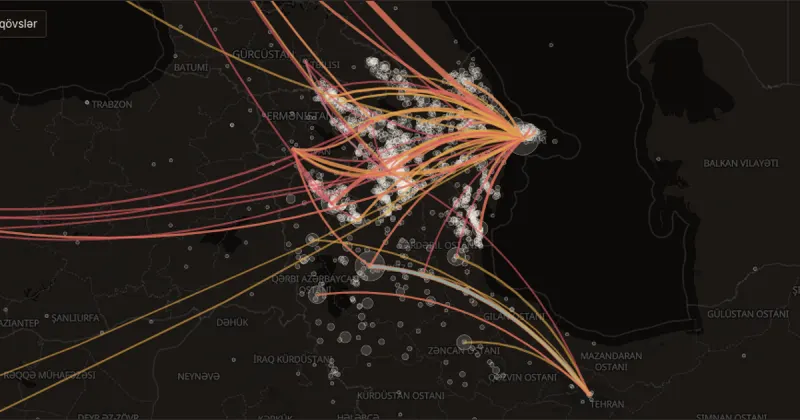
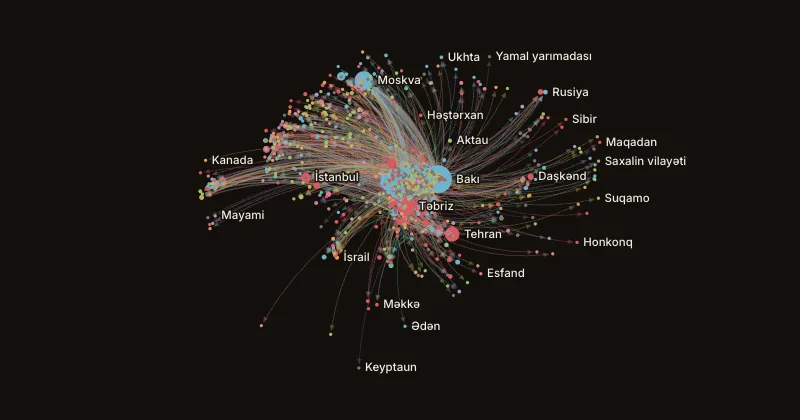
İnsanlar: the network of places on the shared graph view (shared/graph.js), cosmos.gl dropped: one graph of every flow, built once, that the era / occupation / group / sex filters hide, re-size and re-colour without moving anything; Geography from the places' coordinates, Force from ForceAtlas2 at b

diff --git a/sebeke/insanlar/index.html b/sebeke/insanlar/index.html
@@ -4,6 +4,7 @@
 <meta charset="utf-8">
 <meta name="viewport" content="width=device-width, initial-scale=1">
 <script src="/shared/theme.js"></script>
+<link rel="stylesheet" href="/shared/graph.css">
 <title>Tarixi Azərbaycanın insanları · Azad Bilik</title>
 <meta name="description" content="Wikidata-da tarixi Azərbaycan torpaqlarında doğulmuş insanlar: doğulduqları və öldükləri yerlər, köç yolları, peşələr. People of historical Azerbaijan on Wikidata: where they were born and died, migration routes, occupations.">
 <meta name="theme-color" content="#F4EFE6" media="(prefers-color-scheme: light)">
@@ -81,14 +82,11 @@
   .listh { margin-top: 1rem; font-size: .875rem; }
   .listh b { font-weight: 600; }
 
-  .gwrap { position: relative; border: 1px solid var(--rule); border-radius: 4px; background: var(--frame); overflow: hidden; }
-  #cg { height: min(74vh, 44rem); touch-action: none; position: relative; }
-  #cg canvas { display: block; width: 100%; height: 100%; }
-  .gtip { position: absolute; z-index: 3; pointer-events: none; background: var(--paper); border: 1px solid var(--rule); border-radius: 3px; padding: .3rem .55rem; font-size: .8125rem; box-shadow: 0 2px 12px rgb(0 0 0 / .15); max-width: 16rem; }
-  .gload { position: absolute; inset: 0; display: grid; place-items: center; color: var(--muted); font-size: .875rem; }
-  .gbar { position: absolute; right: .6rem; bottom: .6rem; display: flex; gap: .3rem; z-index: 2; }
-  .gbar button { background: var(--panel); border: 1px solid var(--rule); border-radius: 3px; padding: .3rem .6rem; font-size: .75rem; }
-  .gbar button:hover { border-color: var(--ink); }
+  .gwrap { position: relative; }
+  #cg { height: min(74vh, 44rem); }
+  #nodeList:empty { display: none; }
+  .gload { position: absolute; inset: 0; display: grid; place-items: center; color: var(--muted); font-size: .875rem; pointer-events: none; }
+  .gload[hidden] { display: none; }
   .seg { display: inline-flex; flex-wrap: wrap; border: 1px solid var(--rule); border-radius: 3px; padding: 2px; }
   .seg button { padding: .3rem .7rem; border-radius: 2px; font-size: .8125rem; color: var(--muted); }
   .seg button[aria-pressed="true"] { background: var(--ink); color: var(--paper); }
@@ -193,8 +191,7 @@
         <div class="seg" role="group" id="lay" data-i18n-label="layL"></div>
         <div class="seg" role="group" id="col" data-i18n-label="colL"></div>
       </div>
-      <div class="gwrap"><div id="cg" role="img" data-i18n-label="netL"></div><div class="gtip" id="gtip" hidden></div><div class="gload" id="gload"></div>
-        <div class="gbar"><button type="button" id="gfit"></button></div></div>
+      <div class="gwrap"><div id="cg" role="region" data-i18n-label="netL"></div><div class="gload" id="gload"></div></div>
       <div class="lgd" id="netlgd"></div>
       <p class="hint" id="netHint"></p>
       <div class="hubs" id="hubs"></div>
@@ -232,7 +229,6 @@
 </div>
 
 <script src="https://unpkg.com/maplibre-gl@4.7.1/dist/maplibre-gl.js"></script>
-<script src="https://cdn.jsdelivr.net/npm/@cosmos.gl/graph@3.6.0/dist/index.min.js"></script>
 <script>
 (() => {
 const $ = (id) => document.getElementById(id);
@@ -273,7 +269,7 @@ az: { doc: 'Tarixi Azərbaycanın insanları · Azad Bilik', title: 'Tarixi Azə
   legArc: 'Qövs: dövr', legDot: 'Dairə: orada doğulanlar',
   route: (a, b, n) => `${a} → ${b}: ${n} nəfər`, placeList: (p, b, d) => `${p}: ${b} doğulub, ${d} ölüb`, born: 'doğulub', died: 'ölüb', more: (n) => `… və daha ${n}`,
   netK: 'Şəbəkə', netH: 'Yerlər düyün, insan axını tilişdir', netP: 'Eyni süzgəc: hər düyün bir yerdir (şəhər, kənd), hər xətt oradan oraya doğulub-ölmüş insanların axınıdır. Düyünün rəngi orada doğulan və ölənlərin ən çox peşəsidir. «Coğrafiya» düzülüşündə yerlər xəritədəki yerindədir (uzaq yerlər yaxına çəkilib), «qüvvə» düzülüşündə isə qarşılıqlı bağları çox olan yerlər bir-birinə yaxınlaşır.',
-  layL: 'Düzülüş', lay: ['Coğrafiya', 'Qüvvə'], colL: 'Rəng', col: ['Peşə', 'Dövr'], netL: 'Yerlər arasında insan axını şəbəkəsi', gfit: 'Hamısı', gload: 'Şəbəkə yüklənir…',
+  layL: 'Düzülüş', lay: ['Coğrafiya', 'Qüvvə'], colL: 'Rəng', col: ['Peşə', 'Dövr'], netL: 'Yerlər arasında insan axını şəbəkəsi', gsearch: 'Yer axtar…', gfit: 'Hamısı', gload: 'Şəbəkə yüklənir…',
   netHint: 'Düyünün üstünə gəlin və ya toxunun; sürüşdürün, yaxınlaşdırın. Bağlı yerlərin sayı və axın ölçünü, rəng ən çox peşəni göstərir.', hubTitle: 'Ən çox bağlı yerlər:', netStats: (n, e) => `${nf(n)} yer, ${nf(e)} axın`,
   findK: 'Axtarış', findH: 'Bir adamın yolu', findP: 'Adı yazın (latın, kiril və ya ingilis), doğulduğu yerdən yaşadığı və öldüyü yerlərə baxın.', findPh: 'Ad: Nizami, Üzeyir, Natavan…', sugg: 'Məsələn:', none: 'Tapılmadı.', shown: (n, m) => `${nf(n)} nəfərdən ${m} göstərilir`,
   pBorn: 'Doğulub', pDied: 'Ölüb', pRes: 'Yaşayıb / işləyib', pOcc: 'Peşə', pLang: 'Dil', pGrp: 'Rayon', pSites: 'Wikimedia səhifələri', unknown: 'məlum deyil', alive: 'sağdır (Wikidata-da ölüm tarixi yoxdur)', resNote: 'tarixsiz, sıra bilinmir',
@@ -289,7 +285,7 @@ az: { doc: 'Tarixi Azərbaycanın insanları · Azad Bilik', title: 'Tarixi Azə
   <li><b>Sağ olanlar.</b> Ölüm tarixi olmayan və 1906-dan sonra doğulanlar yalnız ən azı 3 Vikimedia saytında səhifəsi varsa göstərilir; yalnız Wikidata-da onsuz da olan məlumat (ad, il, yer) göstərilir.</li>
   <li><b>Peşə rəngi.</b> Wikidata-dakı peşələr söz üzrə 11 qrupa bölünüb (skript: scripts/build.mjs); bir adamın ən çox sayılan qrupu götürülür. Qeyri-dəqiqdir.</li>
   <li><b>Yoxlanmayıb.</b> Wikidata iddiaları (doğum yeri, tarix) əksəriyyətinin mənbəsi göstərilmir; heç biri burada müstəqil yoxlanmayıb.</li></ul>`,
-  foot: (b) => `Məlumat: <a href="https://www.wikidata.org/">Wikidata</a> (CC0), ${b} tarixində çəkilib; sərhədlər hubun öz məlumatlarından (<a href="/atlas/ehali/">əhali</a>, <a href="/atlas/1897/">1897</a>); xəritə: <a href="https://openfreemap.org/">OpenFreeMap</a>, © <a href="https://www.openstreetmap.org/copyright">OpenStreetMap</a>; şəbəkə: <a href="https://github.com/cosmosgl/graph">cosmos.gl</a> (MIT). Hub məlumatı CC0.` },
+  foot: (b) => `Məlumat: <a href="https://www.wikidata.org/">Wikidata</a> (CC0), ${b} tarixində çəkilib; sərhədlər hubun öz məlumatlarından (<a href="/atlas/ehali/">əhali</a>, <a href="/atlas/1897/">1897</a>); xəritə: <a href="https://openfreemap.org/">OpenFreeMap</a>, © <a href="https://www.openstreetmap.org/copyright">OpenStreetMap</a>; şəbəkə: <a href="https://www.sigmajs.org">sigma.js</a>, <a href="https://graphology.github.io">graphology</a> (MIT). Hub məlumatı CC0.` },
 ru: { doc: 'Люди исторического Азербайджана · Azad Bilik', title: 'Люди исторического Азербайджана', sub: 'Где родились, где умерли, куда уехали', library: 'Kitabxana',
   mapK: 'Миграция', mapH: 'От места рождения к месту смерти',
   mapP: 'Каждая дуга — путь людей, родившихся в одном месте и умерших в другом; толщина — их число. Дуга относится к эпохе по году смерти (если года нет — год рождения плюс 60). Включайте и выключайте эпохи, чтобы увидеть поток из Тебриза, Шуши, Шемахи в Баку и пути в Стамбул, Тегеран, Париж и Москву. Встречные дуги изгибаются влево по ходу, чтобы не сливаться.',
@@ -301,7 +297,7 @@ ru: { doc: 'Люди исторического Азербайджана · Azad
   legArc: 'Дуга: эпоха', legDot: 'Круг: родившиеся здесь',
   route: (a, b, n) => `${a} → ${b}: ${n} чел.`, placeList: (p, b, d) => `${p}: родились ${b}, умерли ${d}`, born: 'родился', died: 'умер', more: (n) => `… и ещё ${n}`,
   netK: 'Сеть', netH: 'Места — узлы, потоки людей — рёбра', netP: 'Тот же фильтр: узел — место (город, село), ребро — поток людей, родившихся в одном месте и умерших в другом. Цвет узла — преобладающее занятие тех, кто родился или умер там. В раскладке «география» места стоят там, где на карте (далёкие подтянуты ближе); в раскладке «силы» места со многими связями сближаются.',
-  layL: 'Раскладка', lay: ['География', 'Силы'], colL: 'Цвет', col: ['Занятие', 'Эпоха'], netL: 'Сеть потоков людей между местами', gfit: 'Всё', gload: 'Загрузка сети…',
+  layL: 'Раскладка', lay: ['География', 'Силы'], colL: 'Цвет', col: ['Занятие', 'Эпоха'], netL: 'Сеть потоков людей между местами', gsearch: 'Найти место…', gfit: 'Всё', gload: 'Загрузка сети…',
   netHint: 'Наведите или коснитесь узла; двигайте и приближайте. Размер — число связей и поток, цвет — преобладающее занятие.', hubTitle: 'Самые связанные места:', netStats: (n, e) => `${nf(n)} мест, ${nf(e)} потоков`,
   findK: 'Поиск', findH: 'Путь одного человека', findP: 'Введите имя (латиницей, кириллицей или по-английски) и посмотрите путь от места рождения к местам жизни и смерти.', findPh: 'Имя: Низами, Узеир, Натаван…', sugg: 'Например:', none: 'Не найдено.', shown: (n, m) => `показано ${m} из ${nf(n)}`,
   pBorn: 'Родился', pDied: 'Умер', pRes: 'Жил / работал', pOcc: 'Занятия', pLang: 'Язык', pGrp: 'Район', pSites: 'Страниц Викимедиа', unknown: 'неизвестно', alive: 'жив (в Wikidata нет даты смерти)', resNote: 'без дат, порядок неизвестен',
@@ -317,7 +313,7 @@ ru: { doc: 'Люди исторического Азербайджана · Azad
   <li><b>Живущие.</b> Люди без даты смерти, родившиеся после 1906 года, показаны только при странице минимум в трёх проектах Викимедиа; показано лишь то, что уже есть в Wikidata (имя, год, место).</li>
   <li><b>Цвет занятия.</b> Занятия из Wikidata разнесены по 11 группам по словам (scripts/build.mjs); берётся самая частая у человека. Приблизительно.</li>
   <li><b>Не проверено.</b> У большинства утверждений Wikidata (место, дата) источник не указан; здесь они независимо не проверялись.</li></ul>`,
-  foot: (b) => `Данные: <a href="https://www.wikidata.org/">Wikidata</a> (CC0), выгрузка ${b}; границы из данных самого хаба (<a href="/atlas/ehali/">население</a>, <a href="/atlas/1897/">1897</a>); карта: <a href="https://openfreemap.org/">OpenFreeMap</a>, © <a href="https://www.openstreetmap.org/copyright">OpenStreetMap</a>; сеть: <a href="https://github.com/cosmosgl/graph">cosmos.gl</a> (MIT). Данные хаба — CC0.` },
+  foot: (b) => `Данные: <a href="https://www.wikidata.org/">Wikidata</a> (CC0), выгрузка ${b}; границы из данных самого хаба (<a href="/atlas/ehali/">население</a>, <a href="/atlas/1897/">1897</a>); карта: <a href="https://openfreemap.org/">OpenFreeMap</a>, © <a href="https://www.openstreetmap.org/copyright">OpenStreetMap</a>; сеть: <a href="https://www.sigmajs.org">sigma.js</a>, <a href="https://graphology.github.io">graphology</a> (MIT). Данные хаба — CC0.` },
 en: { doc: 'People of historical Azerbaijan · Azad Bilik', title: 'People of historical Azerbaijan', sub: 'Where they were born, where they died, where they went', library: 'Kitabxana',
   mapK: 'Migration', mapH: 'From the birthplace to the place of death',
   mapP: 'Each arc is the path of people born in one place and dead in another; its width is their number. An arc belongs to an era by the year of death (birth year + 60 where there is none). Switch eras on and off to see the flow from Tabriz, Shusha and Shamakhi to Baku, and the routes to Istanbul, Tehran, Paris and Moscow. Opposite arcs bend to the left of their direction so they do not overlap.',
@@ -329,7 +325,7 @@ en: { doc: 'People of historical Azerbaijan · Azad Bilik', title: 'People of hi
   legArc: 'Arc: era', legDot: 'Circle: born here',
   route: (a, b, n) => `${a} → ${b}: ${n} people`, placeList: (p, b, d) => `${p}: ${b} born, ${d} died`, born: 'born', died: 'died', more: (n) => `… and ${n} more`,
   netK: 'Network', netH: 'Places are nodes, flows of people are edges', netP: 'The same filter: each node is a place (town, village), each edge the flow of people born in one place and dead in another. A node\'s colour is the commonest occupation of those born or dead there. In the "geography" layout places sit where they are on the map (distant ones pulled in); in the "force" layout places with many ties draw together.',
-  layL: 'Layout', lay: ['Geography', 'Force'], colL: 'Colour', col: ['Occupation', 'Era'], netL: 'Network of people\'s flows between places', gfit: 'Fit', gload: 'Loading the network…',
+  layL: 'Layout', lay: ['Geography', 'Force'], colL: 'Colour', col: ['Occupation', 'Era'], netL: 'Network of people\'s flows between places', gsearch: 'Find a place…', gfit: 'Fit', gload: 'Loading the network…',
   netHint: 'Hover or tap a node; drag and zoom. Size is the number of ties and flow, colour the commonest occupation.', hubTitle: 'Best-connected places:', netStats: (n, e) => `${nf(n)} places, ${nf(e)} flows`,
   findK: 'Search', findH: 'One person\'s path', findP: 'Type a name (Latin, Cyrillic or English) and follow the path from birthplace to the places lived in and the place of death.', findPh: 'Name: Nizami, Uzeyir, Natavan…', sugg: 'Try:', none: 'No match.', shown: (n, m) => `showing ${m} of ${nf(n)}`,
   pBorn: 'Born', pDied: 'Died', pRes: 'Lived / worked', pOcc: 'Occupation', pLang: 'Language', pGrp: 'District', pSites: 'Wikimedia pages', unknown: 'unknown', alive: 'living (no death date on Wikidata)', resNote: 'undated, order unknown',
@@ -345,7 +341,7 @@ en: { doc: 'People of historical Azerbaijan · Azad Bilik', title: 'People of hi
   <li><b>Living people.</b> Those without a death date born after 1906 appear only with pages on at least three Wikimedia sites, and only what Wikidata already shows (name, year, place).</li>
   <li><b>Occupation colour.</b> Wikidata's occupations are sorted into 11 groups by keywords (scripts/build.mjs); a person gets the group counted most often. Rough.</li>
   <li><b>Unverified.</b> Most Wikidata claims (place, date) cite no source; none was independently checked here.</li></ul>`,
-  foot: (b) => `Data: <a href="https://www.wikidata.org/">Wikidata</a> (CC0), pulled ${b}; boundaries from the hub's own data (<a href="/atlas/ehali/">population</a>, <a href="/atlas/1897/">1897</a>); map: <a href="https://openfreemap.org/">OpenFreeMap</a>, © <a href="https://www.openstreetmap.org/copyright">OpenStreetMap</a>; network: <a href="https://github.com/cosmosgl/graph">cosmos.gl</a> (MIT). Hub data CC0.` },
+  foot: (b) => `Data: <a href="https://www.wikidata.org/">Wikidata</a> (CC0), pulled ${b}; boundaries from the hub's own data (<a href="/atlas/ehali/">population</a>, <a href="/atlas/1897/">1897</a>); map: <a href="https://openfreemap.org/">OpenFreeMap</a>, © <a href="https://www.openstreetmap.org/copyright">OpenStreetMap</a>; network: <a href="https://www.sigmajs.org">sigma.js</a>, <a href="https://graphology.github.io">graphology</a> (MIT). Hub data CC0.` },
 };
 T.ru.lede = (n, w) => `${nf(n)} человек, родившихся по обе стороны Аракса в Wikidata (нынешняя Азербайджанская Республика, иранские останы Восточный и Западный Азербайджан, Ардебиль, Зенджан, азербайджаноязычные уезды 1897 года, Борчалы, Закатала, Дербент); у ${nf(w)} известны и место рождения, и место смерти.`;
 T.az.lede = (n, w) => `Wikidata-da Araz boyunun hər iki tərəfində (bugünkü Azərbaycan Respublikası, İranın Şərqi və Qərbi Azərbaycan, Ərdəbil və Zəncan ostanları, 1897-ci ildə azərbaycanlı əhalisi çox olan qəzalar, Borçalı, Zaqatala, Dərbənd) doğulmuş ${nf(n)} insan; ${nf(w)} nəfərin həm doğulduğu, həm öldüyü yer məlumdur.`;
@@ -470,87 +466,104 @@ function legendMap() {
   $('maplgd').innerHTML = `<span>${esc(t('legArc'))}</span>` + t('eras').map((e, i) => `<span><i class="ln" style="--c:${ec[i]};opacity:${S.eras.has(i) ? 1 : .3}"></i>${esc(e)}</span>`).join('') + `<span><i style="--c:var(--ink);opacity:.35"></i>${esc(t('legDot'))}</span>`;
 }
 
-// ---- the network (cosmos.gl)
-let graph = null, G = null, gReady = false;
+// ---- the network (shared/graph.js: sigma.js over graphology). One graph of every flow, built once; the
+// filters above hide and show its places and flows and re-size and re-colour them, nothing moves. "Force"
+// positions come from the build (scripts/layout.mjs), "Geography" from the places' coordinates.
+let NG = null, NET = null, G = null, gReady = false, FPOS = null, selPl = -1;
 function geoXY(lon, lat) {
   const cx = 47.2, cy = 39.6, dx = (lon - cx) * 0.78, dy = lat - cy, r = Math.hypot(dx, dy);
   if (r < 0.001) return [0, 0];
   const f = r <= 5 ? r : 5 + 4 * Math.log(r / 5), s = f / r; return [dx * s, -dy * s];
 }
 function netData() {
+  // the current filters' share of each place and flow
   const agg = new Map(), node = new Map();
   const touch = (pl, r) => { let n = node.get(pl); if (!n) node.set(pl, (n = { pl, c: new Array(11).fill(0), e: [0, 0, 0, 0], n: 0, deg: new Set() })); n.c[r[R.cat]]++; n.e[eraOf(keyYear(r))]++; n.n++; return n; };
   for (const i of view) {
     const r = P[i]; if (r[R.bp] < 0 || r[R.dp] < 0 || r[R.bp] === r[R.dp]) continue;
     const e = eraOf(keyYear(r)); if (!S.eras.has(e)) continue;
     const a = touch(r[R.bp], r), b = touch(r[R.dp], r); a.deg.add(r[R.dp]); b.deg.add(r[R.bp]);
-    const k = r[R.bp] * 1e5 + r[R.dp]; let l = agg.get(k); if (!l) agg.set(k, (l = { a: r[R.bp], b: r[R.dp], n: 0, e: [0, 0, 0, 0], c: new Array(11).fill(0) })); l.n++; l.e[e]++; l.c[r[R.cat]]++;
+    const k = r[R.bp] + '>' + r[R.dp]; let l = agg.get(k); if (!l) agg.set(k, (l = { a: r[R.bp], b: r[R.dp], n: 0, e: [0, 0, 0, 0], c: new Array(11).fill(0) })); l.n++; l.e[e]++; l.c[r[R.cat]]++;
   }
-  const nodes = [...node.values()], idx = new Map(nodes.map((n, i) => [n.pl, i]));
-  return { nodes, links: [...agg.values()], idx };
+  return { nodes: node, links: agg };
 }
 const argmax = (a, skipLast) => { let b = -1, v = 0; for (let i = 0; i < a.length - (skipLast ? 1 : 0); i++) if (a[i] > v) { v = a[i]; b = i; } return b < 0 ? a.length - 1 : b; };
-function paint() {
-  if (!G || !graph) return;
-  const cc = catColors().map(hex), ec = eraColors().map(cssRgb).map(hex), { nodes, links } = G;
-  const col = (src, isCat) => { const k = isCat ? argmax(src, true) : argmax(src, false); return (isCat ? cc : ec)[k]; };
-  const pc = new Float32Array(nodes.length * 4), ps = new Float32Array(nodes.length);
-  nodes.forEach((n, i) => { const c = col(S.col === 'cat' ? n.c : n.e, S.col === 'cat'); pc.set([c[0], c[1], c[2], 1], i * 4); ps[i] = 2.5 + Math.min(Math.sqrt(n.n + n.deg.size) * 0.6, 20); });
-  const lc = new Float32Array(links.length * 4), lw = new Float32Array(links.length);
-  const dk = dark(); links.forEach((l, i) => { const c = col(S.col === 'cat' ? l.c : l.e, S.col === 'cat'); lc.set([c[0], c[1], c[2], dk ? .34 : .4], i * 4); lw[i] = 0.5 + Math.sqrt(l.n) * 0.6; });
-  graph.setPointColors(pc); graph.setPointSizes(ps); graph.setLinkColors(lc); graph.setLinkWidths(lw); graph.render();
-  legendNet();
+const colOf = (x) => (S.col === 'cat' ? catColors()[argmax(x.c, true)] : eraColors()[argmax(x.e, false)]);
+function allFlows() {
+  // every flow of every person, whatever the filters: the graph's fixed set of places and flows
+  const nodes = new Map(), edges = new Map();
+  for (const r of P) {
+    if (r[R.bp] < 0 || r[R.dp] < 0 || r[R.bp] === r[R.dp]) continue;
+    nodes.set(r[R.bp], { id: r[R.bp] }); nodes.set(r[R.dp], { id: r[R.dp] });
+    const k = r[R.bp] + '>' + r[R.dp]; if (!edges.has(k)) edges.set(k, { id: k, source: r[R.bp], target: r[R.dp] });
+  }
+  return { nodes: [...nodes.values()], edges: [...edges.values()] };
 }
+function positionsFor(lay) {
+  const out = {};
+  for (const n of NG.nodes) {
+    if (lay === 'force') out[n.id] = { x: FPOS[2 * n.id], y: -FPOS[2 * n.id + 1] };
+    else { const [x, y] = geoXY(PL[n.id][3], PL[n.id][4]); out[n.id] = { x: x * 100, y: -y * 100 }; }
+  }
+  return out;
+}
+async function makeGraph() {
+  gReady = true;
+  const [{ createGraph }, pb] = await Promise.all([import('/shared/graph.js'), FPOS ? null : fetch('data/net-pos.bin').then((r) => r.arrayBuffer())]);
+  if (pb) FPOS = new Int16Array(pb);
+  NG ??= allFlows(); NET = netData();
+  const keep = G?.selected();
+  G?.destroy();
+  G = createGraph($('cg'), {
+    nodes: NG.nodes, edges: NG.edges, positions: positionsFor(S.lay),
+    label: (n) => plName(n.id), color: (n) => { const x = NET.nodes.get(n.id); return x ? colOf(x) : 'var(--muted)'; },
+    size: (n) => { const x = NET.nodes.get(n.id); return (x ? 2 + Math.min(Math.sqrt(x.n + x.deg.size) * 0.45, 16) : 2) * Math.min(1, Math.max(0.6, $('cg').clientWidth / 1000)); },
+    edgeColor: (e) => { const l = NET.links.get(e.id); return l ? colOf(l) : null; },
+    edgeWidth: (e) => { const l = NET.links.get(e.id); return l ? Math.min(4, Math.round((0.4 + Math.sqrt(l.n) * 0.35) * 4) / 4) : 1; },
+    edgeAlpha: 0.32, curve: 0.18, labelSize: 11.5, reshape: S.lay === 'force', stretch: 1.4,
+    strings: { search: t('gsearch') },
+    tooltip: (n) => hubTip(n.id), edgeTooltip: (e) => { const l = NET.links.get(e.id); return l ? `<b>${esc(plName(l.a))} → ${esc(plName(l.b))}</b><br>${nf(l.n)}` : ''; },
+    panel: $('nodeList'),
+    onSelect: (f) => { selPl = f?.type === 'node' ? +f.id : -1; if (f?.type === 'edge') flowList(f.id); else nodeList(selPl); },
+  });
+  window.__graph = G;
+  refreshNet();
+  await G.ready;
+  $('gload').hidden = true;
+  if (keep?.type === 'node' && G.isVisible(keep.id)) G.focus(keep.id, { fly: false });
+}
+function refreshNet() {
+  if (!G) return;
+  NET = netData();
+  G.setFilter((n) => NET.nodes.has(n.id), (e) => NET.links.has(e.id));
+  G.relabel();
+  paint();
+  const hubs = [...NET.nodes.values()].map((n) => [n.pl, n.deg.size + n.n * 0.1]).sort((a, b) => b[1] - a[1]).slice(0, 10);
+  $('hubs').innerHTML = `<span class="hint" style="margin:0 .3rem 0 0;align-self:center">${esc(t('hubTitle'))}</span>` + hubs.map(([pl]) => `<button type="button" data-n="${pl}">${esc(plName(pl))}</button>`).join('');
+  $('hubs').querySelectorAll('[data-n]').forEach((b) => (b.onclick = () => G.focus(+b.dataset.n)));
+  $('netHint').textContent = t('netStats')(NET.nodes.size, NET.links.size) + '. ' + t('netHint');
+  if (selPl >= 0) nodeList(selPl);
+}
+function buildNet() { if (!gReady) makeGraph(); else refreshNet(); }
+function paint() { legendNet(); }
 function legendNet() {
   if (S.col === 'cat') { const cc = catColors(); $('netlgd').innerHTML = CAT_ORDER.map((k, i) => `<span><i style="--c:${cc[i]}"></i>${esc(t('cats')[k])}</span>`).join(''); }
   else { const ec = eraColors(); $('netlgd').innerHTML = t('eras').map((e, i) => `<span><i style="--c:${ec[i]}"></i>${esc(e)}</span>`).join(''); }
 }
-function layout() {
-  const n = G.nodes.length, pos = new Float32Array(n * 2);
-  G.nodes.forEach((nd, i) => { const [x, y] = geoXY(PL[nd.pl][3], PL[nd.pl][4]); pos[2 * i] = 2048 + x * 95; pos[2 * i + 1] = 2048 + y * 95; });
-  const links = new Float32Array(G.links.length * 2); G.links.forEach((l, i) => { links[2 * i] = G.idx.get(l.a); links[2 * i + 1] = G.idx.get(l.b); });
-  return { pos, links };
+function hubTip(pl) {
+  const n = NET.nodes.get(pl); if (!n) return '';
+  return `<b>${esc(plName(pl))}</b><br>${nf(n.n)} · ${nf(n.deg.size)} ${lang === 'az' ? 'bağ' : lang === 'ru' ? 'связей' : 'ties'}`;
 }
-function buildNet(keepView) {
-  G = netData();
-  $('netHint2')?.remove();
-  if (!G.nodes.length) { if (graph) { graph.setPointPositions(new Float32Array(0)); graph.setLinks(new Float32Array(0)); graph.render(); } return; }
-  const { pos, links } = layout();
-  const sim = S.lay === 'force';
-  if (!graph) {
-    graph = new window.Cosmos.Graph($('cg'), {
-      backgroundColor: css('--frame') || '#E9E2D6', spaceSize: 4096, enableSimulation: sim, enableDrag: true, fitViewOnInit: true, fitViewPadding: 0.1, scalePointsOnZoom: true,
-      curvedLinks: false, linkDefaultWidth: 1, pointDefaultSize: 4, renderHoveredPointRing: true, hoveredPointRingColor: css('--accent') || '#A81E28', showFPSMonitor: false, attribution: '',
-      simulationGravity: 0.12, simulationRepulsion: 1.6, simulationLinkSpring: 0.4, simulationLinkDistance: 14, simulationFriction: 0.88, simulationDecay: 4000,
-      onPointMouseOver: (i, _p, ev) => hubTip(i, ev), onPointMouseOut: () => { $('gtip').hidden = true; },
-      onPointClick: (i) => { selectNode(i); }, onClick: (i) => { if (i === undefined) $('gtip').hidden = true; },
-    });
-  } else {
-    graph.setConfigPartial?.({ enableSimulation: sim });
-  }
-  graph.setPointPositions(pos); graph.setLinks(links);
-  paint();
-  if (sim) graph.start(0.8); else graph.pause?.();
-  if (!keepView) setTimeout(() => graph.fitView(0, 0.08), 60);
-  $('gload').hidden = true; gReady = true; window.__graph = graph;
-  const hubs = G.nodes.map((n, i) => [i, n.deg.size + n.n * 0.1]).sort((a, b) => b[1] - a[1]).slice(0, 10);
-  $('hubs').innerHTML = `<span class="hint" style="margin:0 .3rem 0 0;align-self:center">${esc(t('hubTitle'))}</span>` + hubs.map(([i]) => `<button type="button" data-n="${i}">${esc(plName(G.nodes[i].pl))}</button>`).join('');
-  $('hubs').querySelectorAll('[data-n]').forEach((b) => (b.onclick = () => selectNode(+b.dataset.n, true)));
-  $('netHint').textContent = t('netStats')(G.nodes.length, G.links.length) + '. ' + t('netHint');
+function nodeList(pl) {
+  const el = $('nodeList'); if (pl < 0) { el.innerHTML = ''; return; }
+  const items = view.filter((k) => P[k][R.bp] === pl || P[k][R.dp] === pl);
+  const b = items.filter((k) => P[k][R.bp] === pl).length, d = items.filter((k) => P[k][R.dp] === pl).length;
+  el.innerHTML = peopleList(items, `<b>${esc(plName(pl))}</b>: ${nf(b)} ${t('born')}, ${nf(d)} ${t('died')}`); bindPeople(el);
 }
-function hubTip(i, ev) {
-  const n = G.nodes[i]; if (!n) return;
-  const tp = $('gtip'); tp.hidden = false;
-  tp.innerHTML = `<b>${esc(plName(n.pl))}</b><br>${nf(n.n)} · ${nf(n.deg.size)} ${lang === 'az' ? 'bağ' : lang === 'ru' ? 'связей' : 'ties'}`;
-  if (ev) { const r = $('cg').getBoundingClientRect(); tp.style.left = Math.min(ev.clientX - r.left + 12, r.width - 150) + 'px'; tp.style.top = ev.clientY - r.top + 12 + 'px'; }
-}
-function selectNode(i, zoom) {
-  const n = G.nodes[i]; if (!n) return;
-  if (zoom) graph.zoomToPointByIndex?.(i, 600, 6, true);
-  graph.selectPointByIndex?.(i);
-  const items = view.filter((k) => P[k][R.bp] === n.pl || P[k][R.dp] === n.pl);
-  const b = items.filter((k) => P[k][R.bp] === n.pl).length, d = items.filter((k) => P[k][R.dp] === n.pl).length;
-  const el = $('nodeList'); el.innerHTML = peopleList(items, `<b>${esc(plName(n.pl))}</b>: ${nf(b)} ${t('born')}, ${nf(d)} ${t('died')}`); bindPeople(el);
+function flowList(id) {
+  const l = NET.links.get(id), el = $('nodeList'); if (!l) { el.innerHTML = ''; return; }
+  const items = view.filter((k) => P[k][R.bp] === l.a && P[k][R.dp] === l.b && S.eras.has(eraOf(keyYear(P[k]))));
+  el.innerHTML = peopleList(items, `<b>${esc(plName(l.a))} → ${esc(plName(l.b))}</b>: ${nf(items.length)}`); bindPeople(el);
 }
 
 // ---- search and a person's path
@@ -667,19 +680,18 @@ function controls() {
   $('fcat').innerHTML = opt(-1, t('catAll'), S.cat < 0) + CAT_ORDER.map((k, i) => opt(i, t('cats')[k], S.cat === i)).join('');
   $('fgrp').innerHTML = opt(-2, t('grpDef'), S.grp === -2) + opt(-1, t('grpAll'), S.grp === -1) + t('grps').map((g, i) => opt(i, g, S.grp === i)).join('');
   $('fsex').innerHTML = opt(0, t('sexAll'), S.sex === 0) + opt(1, t('sexM'), S.sex === 1) + opt(2, t('sexF'), S.sex === 2);
-  const seg = (id, items, cur, key) => { $(id).innerHTML = items.map(([v, l]) => `<button type="button" data-v="${v}" aria-pressed="${cur === v}">${esc(l)}</button>`).join(''); $(id).querySelectorAll('button').forEach((b) => (b.onclick = () => { S[key] = b.dataset.v; controls(); if (key === 'lay') buildNet(true), setTimeout(() => graph.fitView(500, 0.08), 80); else paint(); })); };
+  const seg = (id, items, cur, key) => { $(id).innerHTML = items.map(([v, l]) => `<button type="button" data-v="${v}" aria-pressed="${cur === v}">${esc(l)}</button>`).join(''); $(id).querySelectorAll('button').forEach((b) => (b.onclick = () => { S[key] = b.dataset.v; controls(); if (key === 'lay') { if (gReady) makeGraph(); } else refreshNet(); })); };
   seg('lay', [['geo', t('lay')[0]], ['force', t('lay')[1]]], S.lay, 'lay');
   seg('col', [['cat', t('col')[0]], ['era', t('col')[1]]], S.col, 'col');
 }
 let ut = 0;
-function update() { clearTimeout(ut); ut = setTimeout(() => { refilter(); drawMap(); if (graph) buildNet(true); $('routeList').innerHTML = ''; if (mapReady) map.getSource('sel').setData({ type: 'FeatureCollection', features: [] }); }, 30); }
+function update() { clearTimeout(ut); ut = setTimeout(() => { refilter(); drawMap(); if (G) refreshNet(); $('routeList').innerHTML = ''; if (mapReady) map.getSource('sel').setData({ type: 'FeatureCollection', features: [] }); }, 30); }
 $('fcat').onchange = (e) => { S.cat = +e.target.value; update(); };
 $('fgrp').onchange = (e) => { S.grp = +e.target.value; update(); };
 $('fsex').onchange = (e) => { S.sex = +e.target.value; update(); };
 $('ftop').oninput = (e) => { S.top = +e.target.value; drawMap(); };
 $('mreg').onclick = () => map.fitBounds(regionBox, { padding: 10, duration: 600 });
 $('mwide').onclick = () => { if (!cur?.shown.length) return; const b = new maplibregl.LngLatBounds(); cur.shown.forEach((x) => { b.extend(plc(x.bp)); b.extend(plc(x.dp)); }); map.fitBounds(b, { padding: 30, duration: 600 }); };
-$('gfit').onclick = () => graph?.fitView(500, 0.08);
 let qt = 0; $('q').oninput = () => { clearTimeout(qt); qt = setTimeout(runSearch, 120); };
 
 function applyLang() {
@@ -691,12 +703,12 @@ function applyLang() {
   document.querySelectorAll('[data-keep-lang]').forEach((a) => { const u = new URL(a.getAttribute('href'), location.href); if (lang === 'az') u.searchParams.delete('lang'); else u.searchParams.set('lang', lang); a.href = u.pathname + u.search; });
   $('kx-nav').href = `https://kitabxana.az${lang === 'az' ? '' : '/' + lang}/`;
   $('mapP').textContent = t('mapP'); $('netP').textContent = t('netP'); $('findP').textContent = t('findP'); $('covP').textContent = t('covP');
-  $('grpNote').textContent = t('grpNote'); $('mreg').textContent = t('mreg'); $('mwide').textContent = t('mwide'); $('gfit').textContent = t('gfit'); $('mapHint').textContent = t('mapHint'); $('gload').textContent = t('gload');
+  $('grpNote').textContent = t('grpNote'); $('mreg').textContent = t('mreg'); $('mwide').textContent = t('mwide'); G?.setStrings({ search: t('gsearch') }); $('mapHint').textContent = t('mapHint'); $('gload').textContent = t('gload');
   $('method').innerHTML = t('method')(); $('ftop').setAttribute('aria-label', t('topL')); $('cg').setAttribute('aria-label', t('netL'));
   if (!D) return;
   $('lede').textContent = t('lede')(D.stats.total, D.stats.withDeathPlace); $('foot').innerHTML = t('foot')(D.built);
   controls(); stats(); legendMap(); legendNet(); coverage(); suggest();
-  if (G) { $('netHint').textContent = t('netStats')(G.nodes.length, G.links.length) + '. ' + t('netHint'); }
+  if (G && NET) { $('netHint').textContent = t('netStats')(NET.nodes.size, NET.links.size) + '. ' + t('netHint'); G.relabel(); }
   if (curP >= 0) selectPerson(curP, false);
 }
 document.querySelectorAll('[data-lang]').forEach((b) => (b.onclick = () => {
@@ -705,15 +717,15 @@ document.querySelectorAll('[data-lang]').forEach((b) => (b.onclick = () => {
   applyLang();
 }));
 // The maps change style in place (shared/theme.js); the network, the legends and the colours drawn from CSS follow
-addEventListener('themechange', () => setTimeout(() => { try { legendMap(); legendNet(); paint(); } catch {} }));
+addEventListener('themechange', () => setTimeout(() => { try { legendMap(); legendNet(); G?.relabel(); } catch {} }));
 applyLang();
 $('gload').textContent = t('gload');
 
 fetch('data/insanlar.json').then((r) => r.json()).then((d) => {
   D = d; P = d.people; PL = d.places; D.cats.forEach((k, i) => (catIdx[k] = i));
   refilter(); initMap(); drawMap(); buildIndex(); applyLang();
-  // the network starts when it comes into view (cosmos.gl wants the canvas sized)
-  const go = () => { if (!gReady) buildNet(false); };
+  // the network starts when it comes into view
+  const go = () => { if (!gReady) makeGraph(); };
   if ('IntersectionObserver' in window) { const io = new IntersectionObserver((es) => { if (es.some((e) => e.isIntersecting)) { go(); io.disconnect(); } }, { rootMargin: '300px' }); io.observe($('cg')); } else go();
   const pq = qs.get('p'); if (pq) { const i = P.findIndex((r) => 'Q' + r[0] === pq); if (i >= 0) selectPerson(i, false); }
   window.__people = { P, PL, S };

diff --git a/sebeke/insanlar/README.md b/sebeke/insanlar/README.md
@@ -1,31 +1,32 @@
 # İnsanlar · People of historical Azerbaijan
 
-[azadbilik.org/sebeke/insanlar](https://azadbilik.org/sebeke/insanlar/): people on Wikidata born on either side of the Araz, as (1) a migration map of arcs from birthplace to place of death by era (before 1828, 1828–1920, 1920–1991, 1991 on), (2) a network of places joined by those flows, drawn with cosmos.gl, coloured by occupation or era, in a geographic or a force layout, (3) a search that follows one person from birthplace through places lived in to place of death, and (4) a plain account of how lopsided the data is. AZ, RU, EN.
+[azadbilik.org/sebeke/insanlar](https://azadbilik.org/sebeke/insanlar/): people on Wikidata born on either side of the Araz, as (1) a migration map of arcs from birthplace to place of death by era (before 1828, 1828–1920, 1920–1991, 1991 on), (2) a network of places joined by those flows, coloured by occupation or era, in a geographic or a force layout, (3) a search that follows one person from birthplace through places lived in to place of death, and (4) a plain account of how lopsided the data is. AZ, RU, EN.
 
 | File | What |
 |---|---|
-| `index.html` | The page (MapLibre map, cosmos.gl network, search; plain JS) |
+| `index.html` | The page (MapLibre map, network, search; plain JS) |
 | `data/insanlar.json` | What the page reads, built by `scripts/build.mjs` |
 | `scripts/region.mjs` | The region as polygons, from the hub's own data (below) |
 | `scripts/fetch.mjs` | Pulls Wikidata into `data/raw/` (git-ignored cache) |
 | `scripts/build.mjs` | `data/raw/` → `data/insanlar.json` |
+| `scripts/layout.mjs` | The network's "Force" positions, `data/net-pos.bin` (ForceAtlas2, run by `build.mjs`) |
 | `og.png` | Share card |
 
 ## Sources
 
 - **People, places, occupations:** [Wikidata](https://www.wikidata.org/), CC0 1.0, through the Query Service (`query.wikidata.org/sparql`). Properties: P31 = Q5, P19 birth place, P20 death place, P569/P570 dates, P21 sex, P106 occupation, P551 residence, P937 work location, P1412 / P6886 languages, P172 ethnic group, P625 coordinates, P131 located in, sitelinks.
 - **Boundaries used to decide "historical Azerbaijan":** the hub's own [population map](../../atlas/ehali/) (78 districts of today's Republic of Azerbaijan; 55 counties of the Iranian provinces East Azerbaijan, West Azerbaijan, Ardabil, Zanjan; geoBoundaries, CC BY-SA 3.0 / ODbL) and [1897 census map](../../atlas/1897/) (RISTAT, CC0), whose uezds and okrugs where at least 25% named Azerbaijani («татарский») their native language are included: Erivan, Etchmiadzin, Surmali, Sharur-Daralayaz, Novobayazet, Zangezur, Borchali, Zaqatala, Kaitag-Tabasaran and the Baku and Elisabethpol uezds. Derbent, a seat of Kyurin okrug where Azerbaijani is only 2%, is a 25 km disc around the city.
-- **Base map:** OpenFreeMap tiles, © OpenStreetMap contributors. **Network:** [cosmos.gl](https://github.com/cosmosgl/graph) 3.6.0 (MIT) from jsDelivr.
+- **Base map:** OpenFreeMap tiles, © OpenStreetMap contributors. **Network:** [shared/graph.js](../../shared/graph.js) (sigma.js 3 on WebGL over graphology, with the hub's own edge and label layers): sigma 3.0.3, graphology 0.26.0 (MIT) from jsDelivr; at build time graphology-layout-forceatlas2 0.10.1 (MIT).
 
 ## Rebuilding
 
 ```bash
 cd sebeke/insanlar
 node scripts/fetch.mjs     # about 45 min, polite: one query at a time, cached per tile / batch in data/raw/ (66 MB, git-ignored)
-node scripts/build.mjs     # seconds
+node scripts/build.mjs     # seconds, then ~15 s of layout
 ```
 
-Delete `data/raw/` to refetch from scratch. Node 20+; no dependencies.
+Delete `data/raw/` to refetch from scratch. Node 20+. The layout uses the hub's [scripts/graph-layout.mjs](../../scripts/graph-layout.mjs), which installs graphology and its ForceAtlas2 into `scripts/.deps/` (git-ignored) on first use.
 
 ## What it holds (Wikidata pulled 2026-11-26)
 
@@ -46,7 +47,7 @@ The birthplace filter starts on «Republic + Iran» (10,696 people, 6,334 with b
 - **Places.** A place without its own coordinates takes those of its first parent unit that has some (P131); flagged in the data (a place's 7th field is 1 when its coordinates are the parent's). Birth places without any coordinates drop the person from the map but not from search. Death and residence places are not tested against the region; they can be anywhere. About 2,400 people have a death place that has no coordinates at all; they have no arc. A death place is the exact item Wikidata names (a hospital or a Paris arrondissement stays separate from its city).
 - **Occupation groups.** Eleven groups by keywords in the English labels of P106 values (`CATS` in `build.mjs`); the group a person's occupations count most in, ties by the order literature, music, art, stage, religion, science, military, politics, business, sport. Unmatched occupations fall in "other". Rough.
 - **Arcs.** Quadratic curves bending to the left of travel, so A→B and B→A separate; width grows with the number of people. The map shows the strongest N arcs (a slider).
-- **Network layout.** "Geography" places each place where it is, with distances beyond ~5° compressed logarithmically so Paris and Moscow fit; "force" starts from that and runs cosmos.gl's simulation.
+- **Network layout.** "Geography" places each place where it is, with distances beyond ~5° compressed logarithmically so Paris and Moscow fit; "force" is ForceAtlas2 over every flow (all eras, everyone), computed at build time. The graph holds every place and flow once; the filters hide and show them and re-size and re-colour them by the people they leave, never moving anything. Hover lights a place's flows, a click lists its people in the graph's side panel (a bottom sheet on a phone), a click on a lit flow lists the people on it; the search box finds a place.
 
 ## Caveats
 
